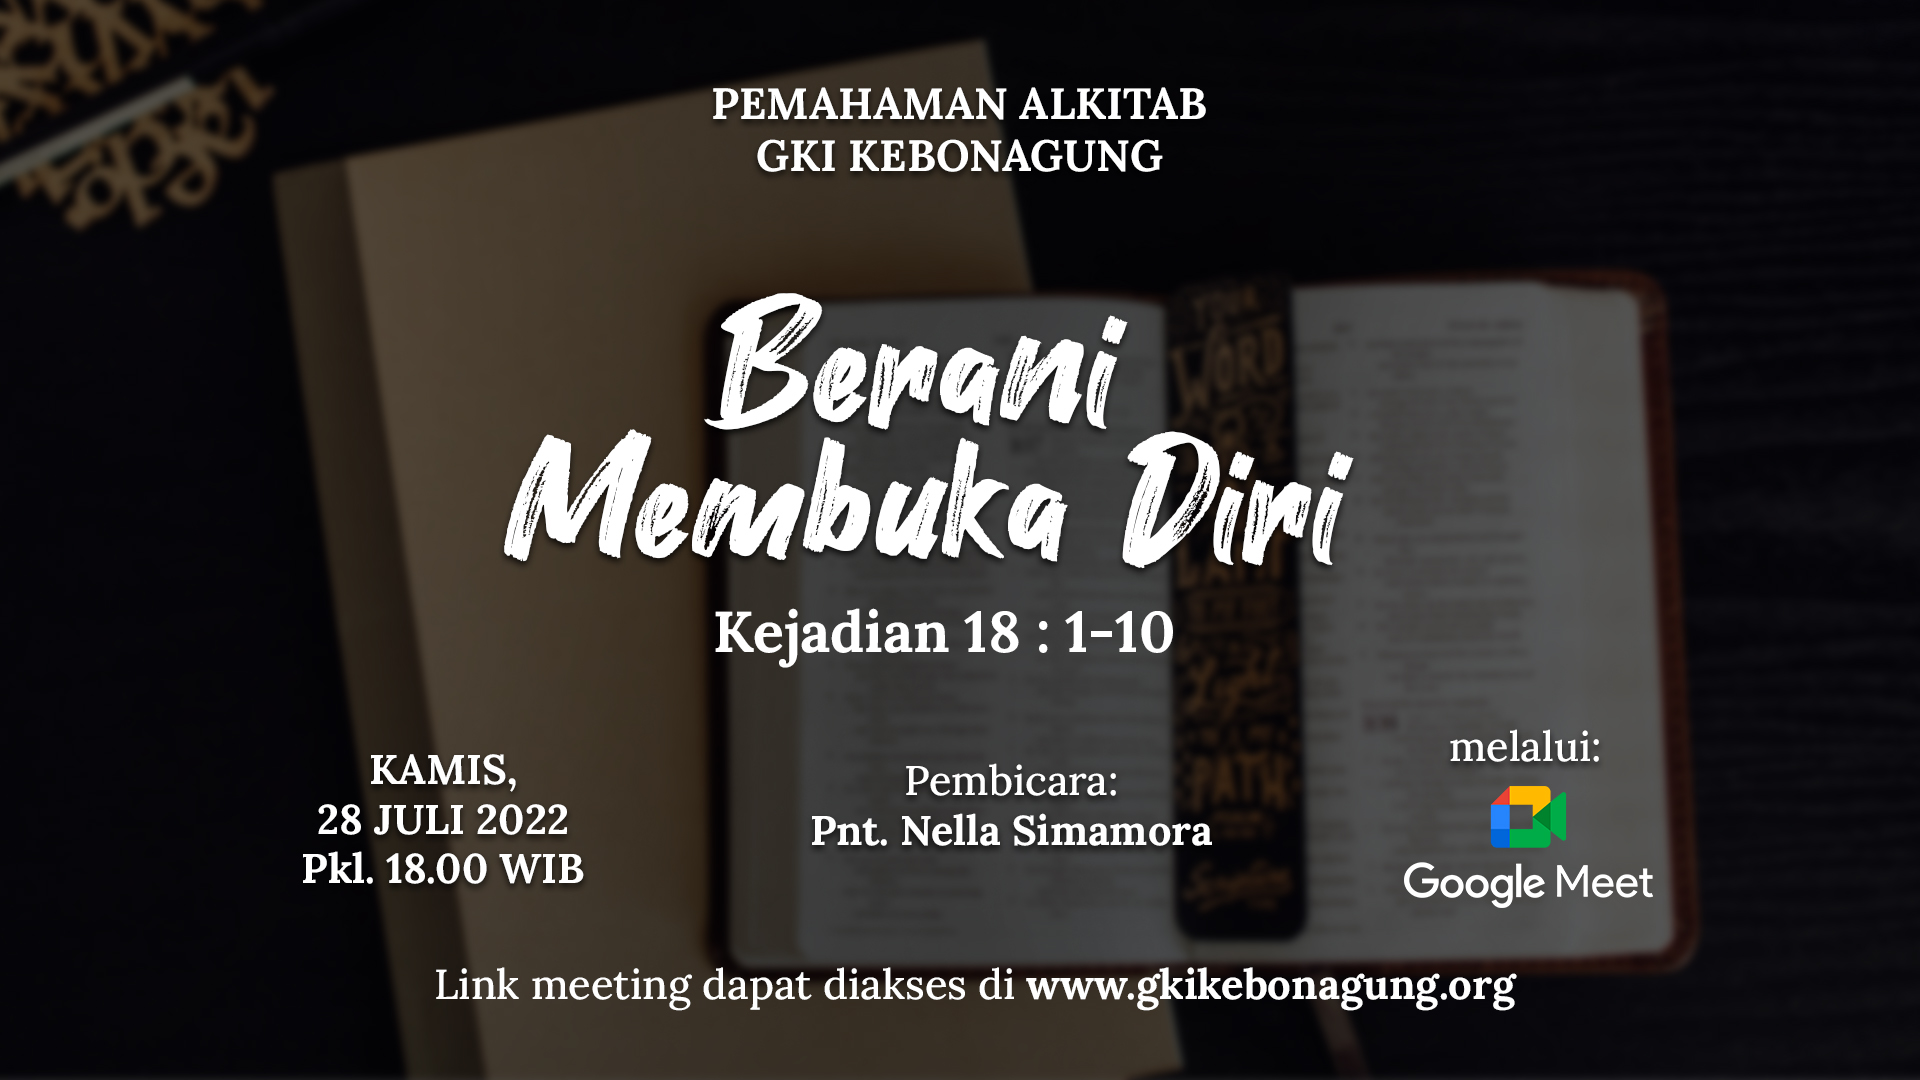
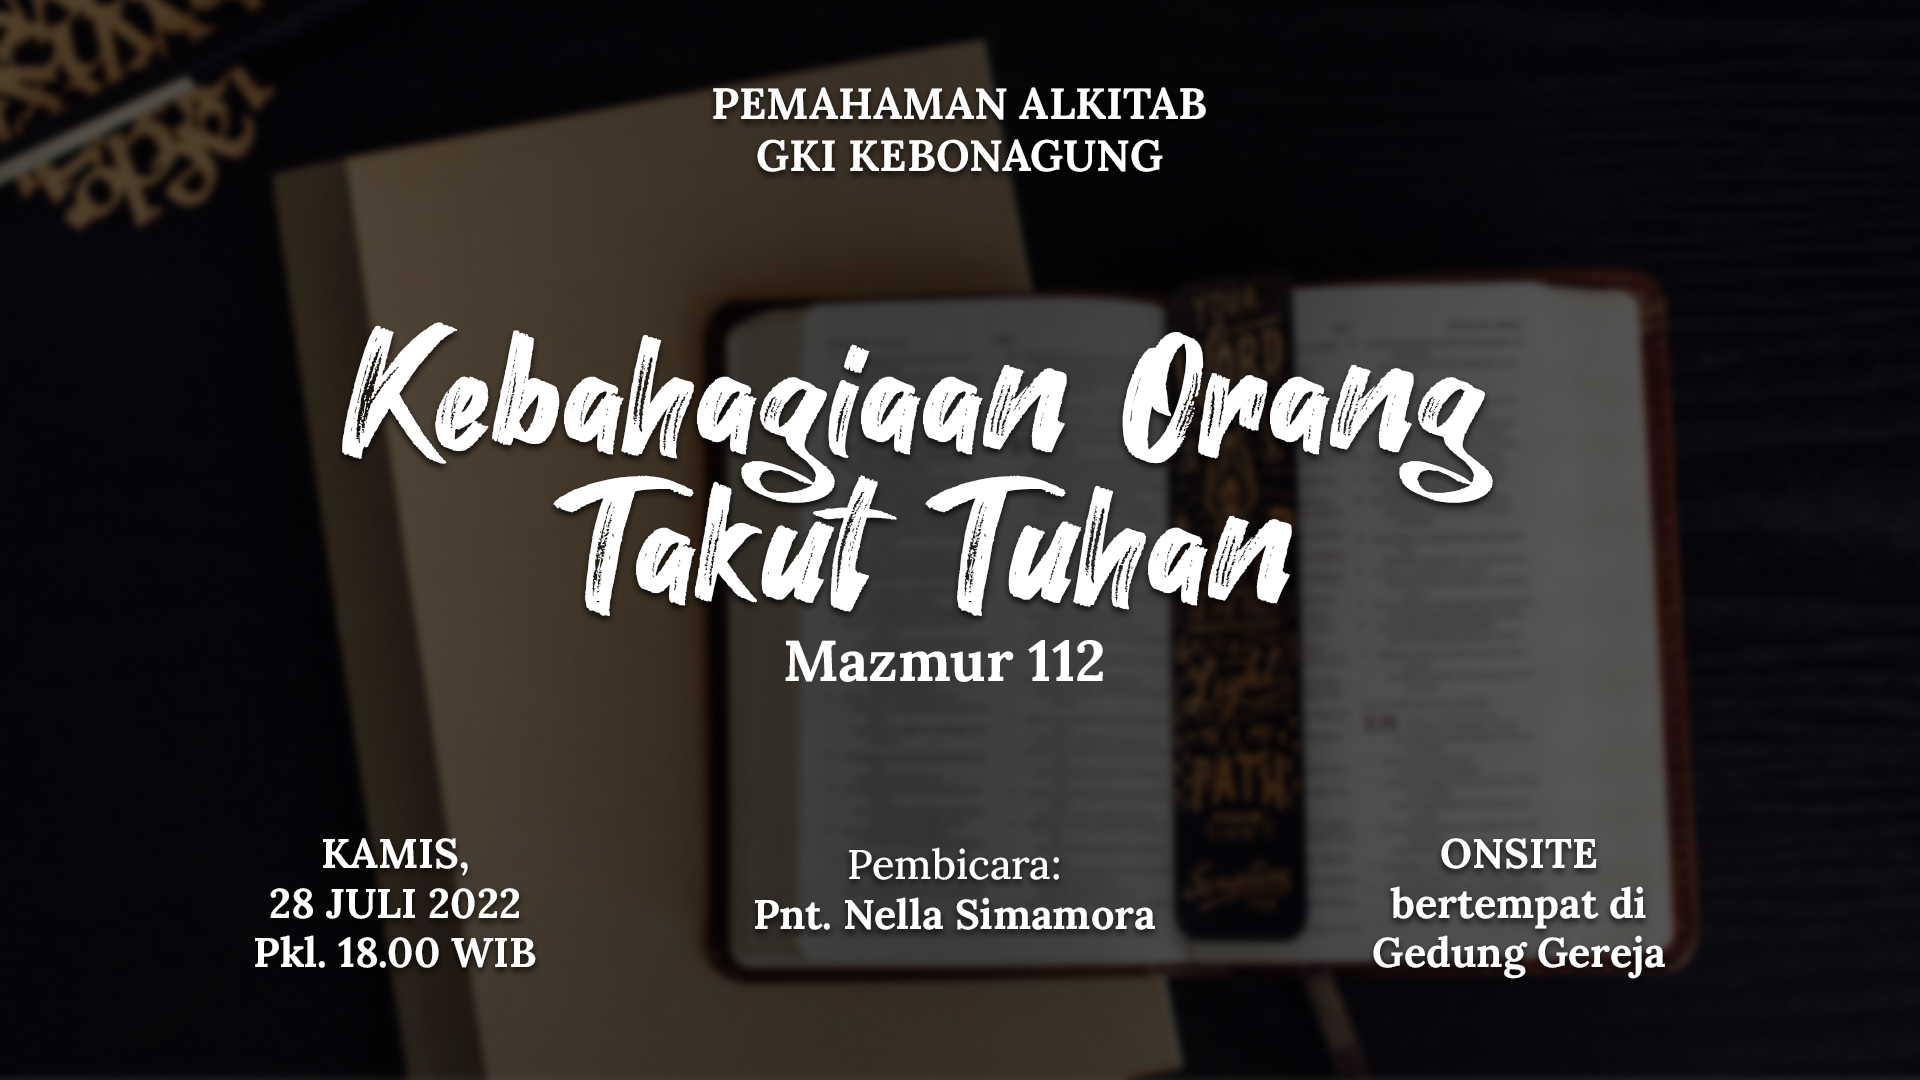
1

Changed region(s): [[0.1562, 0.275, 0.7812, 0.6417], [0.125, 0.6722, 0.875, 0.9472]]

diff --git a/application/views/Front/vLandingpage.php b/application/views/Front/vLandingpage.php
@@ -114,23 +114,23 @@
                     <div class="mt-5">
                         <div class="card text-center shadow mx-3">
                             <!-- UBAH -->
-                            <a href="https://youtu.be/b8G2gmiCDAo" target="_blank" class="text-decoration-none">
+                            <a href="https://youtu.be/JqLu2oh6yLE" target="_blank" class="text-decoration-none">
                                 <img src="<?= base_url() ?>front/assets/img/umum.jpg" class="card-img-top">
                             </a>
                             <div class="card-body">
                                 <h4 class="card-title">Ibadah Umum</h4>
                                 <!-- UBAH -->
-                                <p class="card-text">"Yesus Membawa Pertentangan"<br>Minggu, 14 Agustus 2022 - 07.00 WIB<br>Pnt. Nella Simamora</p>
+                                <p class="card-text">"Sabat yang Memerdekakan"<br>Minggu, 21 Agustus 2022 - 07.00 WIB<br>Pdt. Dwi Santoso</p>
                             </div>
                             <div class="card-body">
                                 <!-- UBAH -->
                                 <a href="<?= base_url() ?>Fronts/pilihOnsite" class="btn btn-primary mb-2 px-5 mx-1" style="border-radius: 10rem; font-size: 11pt">Onsite</a>
-                                <a href="https://youtu.be/b8G2gmiCDAo" target="_blank" class="btn btn-primary mb-2 px-5 mx-1" style="border-radius: 10rem; font-size: 11pt">Online</a>
+                                <a href="https://youtu.be/JqLu2oh6yLE" target="_blank" class="btn btn-primary mb-2 px-5 mx-1" style="border-radius: 10rem; font-size: 11pt">Online</a>
                             </div>
                         </div>
                     </div>
                 </div>
-                <div class="col-lg-4 text-center">
+                <div class="col-lg-4 text-center d-none">
                     <div class="mt-5">
                         <div class="card text-center shadow mx-3">
                             <a href="#ibadah" class="text-decoration-none">
@@ -167,21 +167,21 @@
                         </div>
                     </div>
                 </div>
-                <div class="col-lg-4 text-center d-none">
+                <div class="col-lg-4 text-center">
                     <div class="mt-5">
                         <div class="card text-center shadow mx-3">
                             <!-- UBAH -->
-                            <a href="https://meet.google.com/dko-faeo-bpv" target="_blank" class="text-decoration-none">
+                            <a href="#ibadah" class="text-decoration-none">
                                 <img src="<?= base_url() ?>front/assets/img/pa.jpg" class="card-img-top">
                             </a>
                             <div class="card-body">
                                 <h4 class="card-title">Pemahaman Alkitab</h4>
                                 <!-- UBAH -->
-                                <p class="card-text">"Berani Membuka Diri"<br>Kamis, 28 Juli 2022 - 18.00 WIB <br>Pnt. Nella Simamora</p>
+                                <p class="card-text">"Kebahagiaan Orang Takut Tuhan"<br>Kamis, 25 Agustus 2022 - 18.00 WIB <br>Pnt. Nella Simamora</p>
                             </div>
                             <div class="card-body">
                                 <!-- UBAH -->
-                                <a href="https://meet.google.com/dko-faeo-bpv" target="_blank" class="btn btn-primary mb-2 px-5" style="border-radius: 10rem; font-size: 11pt">Online</a>
+                                <a href="#ibadah" class="btn btn-primary mb-2 px-5" style="border-radius: 10rem; font-size: 11pt">Onsite di Gereja</a>
                             </div>
                         </div>
                     </div>
@@ -273,7 +273,7 @@
                         <div class="mb-2"><i class="bi bi-file-earmark-text fs-1 text-primary"></i></div>
                         <h3 class="h4 mb-2">Warta Jemaat</h3>
                         <!-- UBAH -->
-                        <a class="text-decoration-none" href="<?= base_url() ?>front/assets/docs/warta.docx" download="Warta Jemaat 7 Agustus 2022">
+                        <a class="text-decoration-none" href="<?= base_url() ?>front/assets/docs/warta.docx" download="Warta Jemaat 14 Agustus 2022">
                             <span class="h6 text-light"><i class="bi bi-download fs-4 mx-1"></i>
                                 Download
                             </span>
@@ -285,7 +285,7 @@
                         <div class="mb-2"><i class="bi bi-file-earmark-text fs-1 text-primary"></i></div>
                         <h3 class="h4 mb-2">Liturgi Ibadah Umum</h3>
                         <!-- UBAH -->
-                        <a class="text-decoration-none" href="<?= base_url() ?>front/assets/docs/liturgi.docx" download="Liturgi Ibadah 7 Agustus 2022">
+                        <a class="text-decoration-none" href="<?= base_url() ?>front/assets/docs/liturgi.docx" download="Liturgi Ibadah 14 Agustus 2022">
                             <span class="h6 text-light"><i class="bi bi-download fs-4 mx-1"></i>
                                 Download
                             </span>
